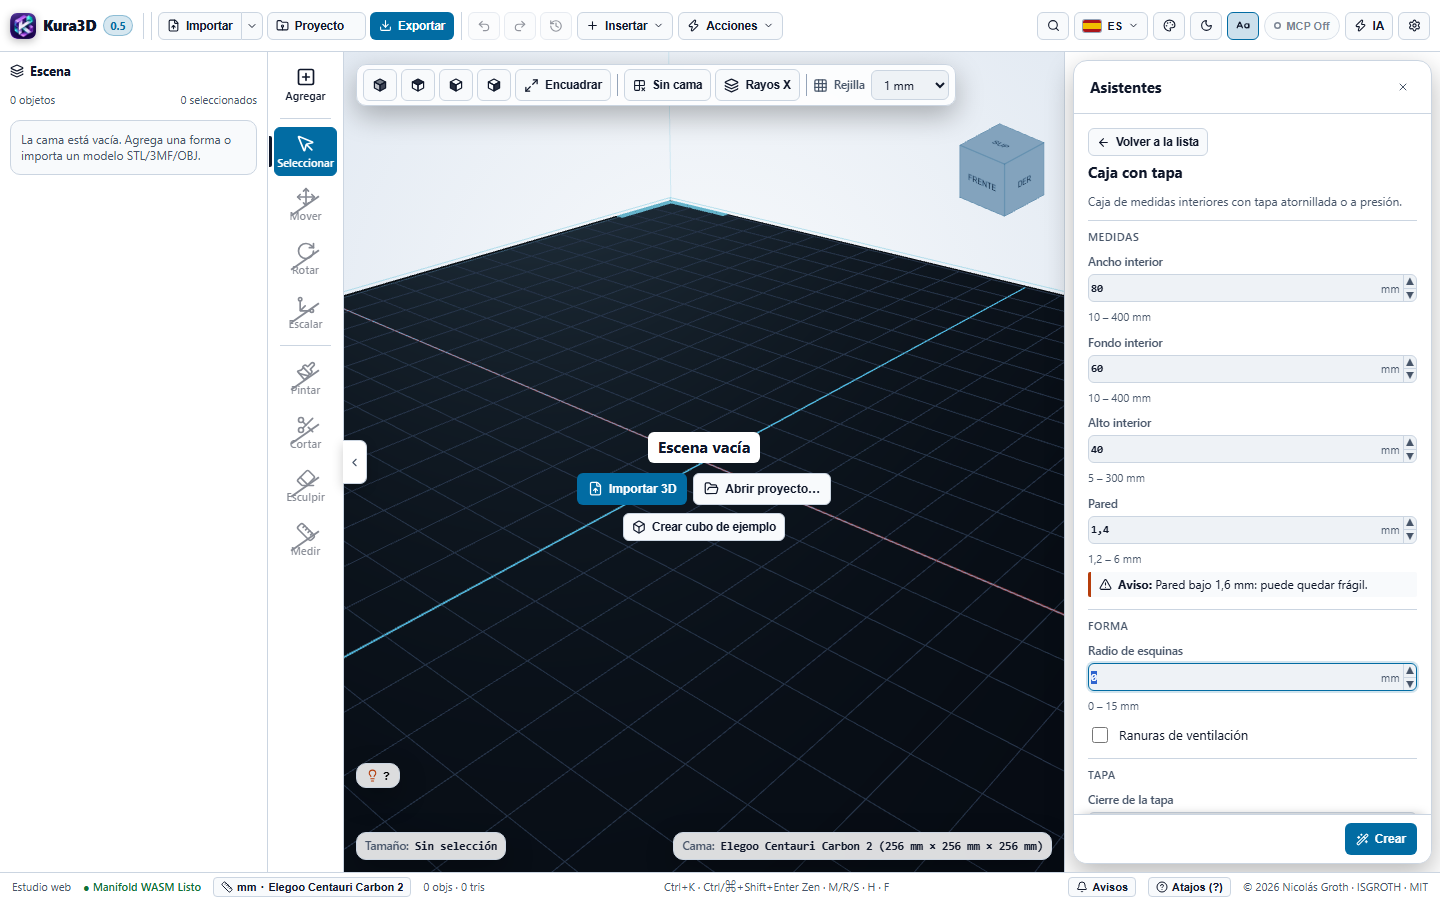
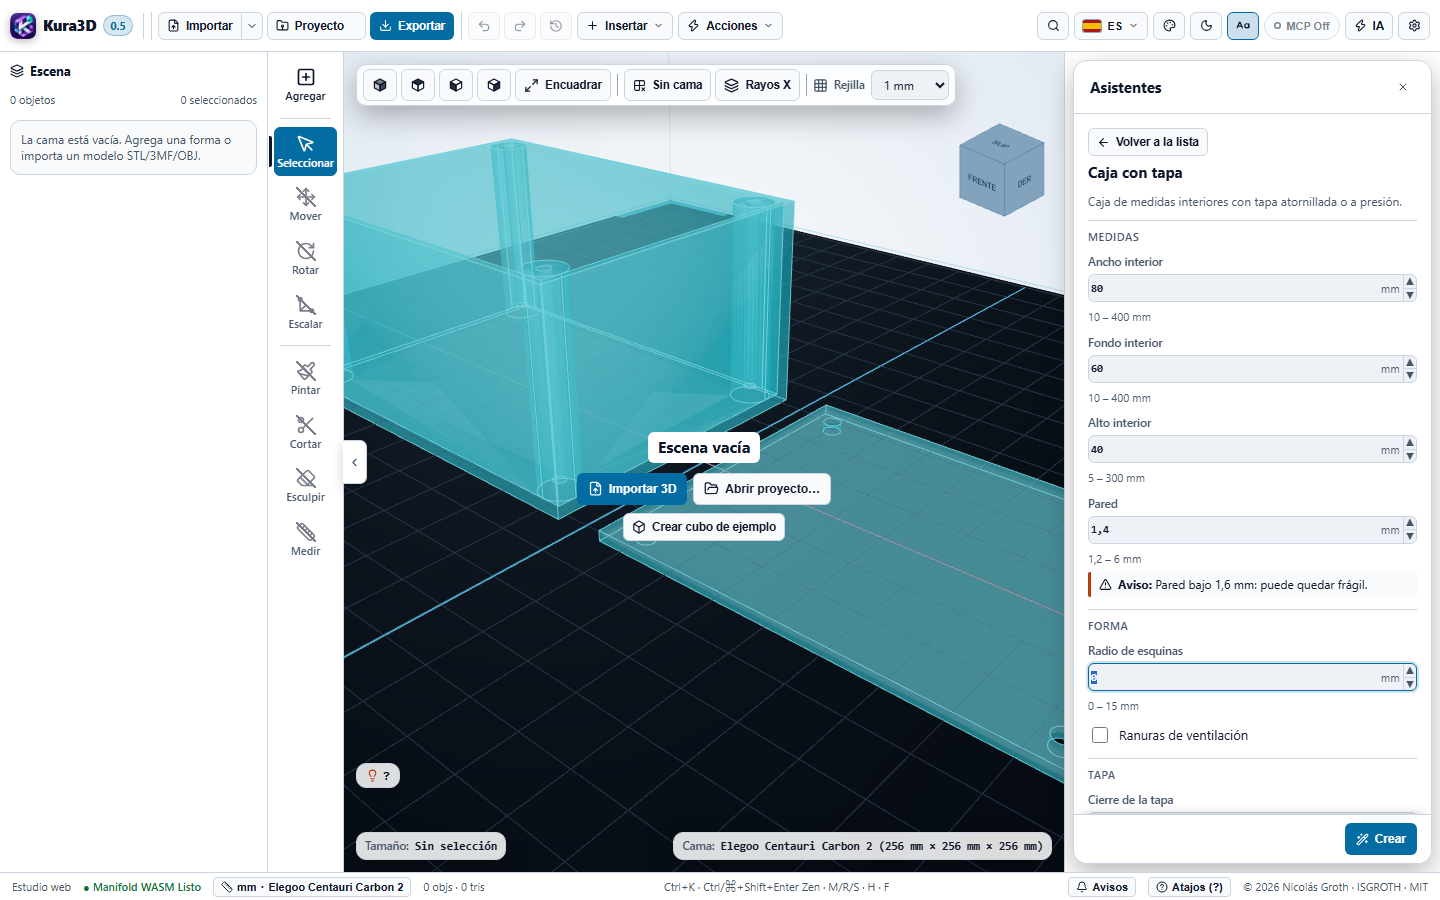
docs(guias): capturas de Suavizar, Orientar, Torreta, Dividir con imanes y Asistentes generadas desde la app
Recorridos corregidos (Acciones › Mala, booleana con los nombres reales, estados sin avisos ni «Guardando borrador»).

diff --git a/e2e/docs/capturas-orientar.spec.ts b/e2e/docs/capturas-orientar.spec.ts
@@ -15,7 +15,7 @@ test('orientar', async ({ page }) => {
   await abrir(page);
   const tallo = await cmd(page, 'create_primitive', { type: 'box', width: 10, depth: 10, height: 40, name: 'Tallo', placement: 'free', position: [0, 0, 20], color: '#38bdf8' });
   const barra = await cmd(page, 'create_primitive', { type: 'box', width: 60, depth: 10, height: 10, name: 'Travesaño', placement: 'free', position: [0, 0, 45], color: '#38bdf8' });
-  const te = await cmd(page, 'boolean_operation', { op: 'union', target: tallo.id, tools: [barra.id] });
+  const te = await cmd(page, 'boolean_operation', { operation: 'union', targetId: tallo.id, toolIds: [barra.id], resultName: 'Te' });
   await seleccionar(page, [te.resultId]);
   await encuadrar(page, 'iso');
   await sinAvisos(page);
@@ -25,8 +25,11 @@ test('orientar', async ({ page }) => {
   await expect(panel.getByTestId('orient-options')).toBeVisible({ timeout: 60_000 });
   await expect(panel.getByTestId('orient-badge-recommended')).toBeVisible();
   // La actual en foco: el visor resalta en naranja lo que hoy necesitaría soporte.
-  await panel.getByRole('option').filter({ has: page.getByTestId('orient-badge-current') }).hover();
+  await panel.getByRole('option').filter({ has: page.getByTestId('orient-badge-current') }).click();
   await expect(panel.getByTestId('orient-legend')).toBeVisible();
+  // Sin el puntero encima (no sale la ayuda emergente) y con la lista desde arriba.
+  await page.mouse.move(700, 120);
+  await panel.evaluate((el) => { el.scrollTop = 0; el.querySelectorAll('*').forEach((n) => { if ((n as HTMLElement).scrollTop > 0) (n as HTMLElement).scrollTop = 0; }); });
   await page.waitForTimeout(1200);
   await page.screenshot({ path: 'docs/guia/img/orientar-01-lista.png' });
 
@@ -36,6 +39,7 @@ test('orientar', async ({ page }) => {
   await expect(panel.getByTestId('orient-summary')).toContainText('ya es la mejor', { timeout: 60_000 });
   await encuadrar(page, 'iso');
   await sinAvisos(page);
-  await page.mouse.move(700, 880);
+  await page.mouse.move(700, 120);
+  await expect(page.locator('footer')).toContainText('Borrador local guardado', { timeout: 40_000 });
   await page.screenshot({ path: 'docs/guia/img/orientar-02-aplicada.png' });
 });

diff --git a/e2e/docs/capturas-suavizar.spec.ts b/e2e/docs/capturas-suavizar.spec.ts
@@ -8,6 +8,7 @@
  * @license MIT
  */
 import { test, expect, type Page } from '@playwright/test';
+import { itemAccion } from '../acciones-helpers';
 import { abrir, captura, cmd, encuadrar, seleccionar, sinAvisos } from './helpers';
 
 const libre = (page: Page) => expect.poll(() => page.evaluate(() => (window as any).__s.getState().busyOperation), { timeout: 30_000 }).toBeNull();
@@ -36,18 +37,19 @@ test('suavizar', async ({ page }) => {
   await seleccionar(page, [esfera.id]);
 
   // 1) Panel desde Acciones › Malla, con la vista previa calculada.
-  await page.getByRole('button', { name: 'Acciones', exact: true }).first().click();
-  await page.getByRole('menuitem', { name: /^Suavizar/ }).click();
+  await (await itemAccion(page, 'Suavizar…')).click();
   await expect(page.getByRole('heading', { name: 'Suavizar malla' })).toBeVisible();
   await page.getByRole('button', { name: /^Vista previa/ }).click();
-  await expect(page.getByRole('status').filter({ hasText: 'Vista previa lista' })).toBeVisible({ timeout: 60_000 });
+  await expect(page.locator('#kura-inspector-panel').getByRole('status').filter({ hasText: 'Vista previa lista' })).toBeVisible({ timeout: 60_000 });
   await sinAvisos(page);
   await captura(page, 'suavizar-01-panel');
 
   // 2) Resultado aplicado.
   await page.getByRole('button', { name: 'Aplicar', exact: true }).click();
   await libre(page);
-  await expect(page.getByRole('status').filter({ hasText: 'Suavizado aplicado' })).toBeVisible();
+  await expect(page.locator('#kura-inspector-panel').getByRole('status').filter({ hasText: 'Suavizado aplicado' })).toBeVisible();
+  await sinAvisos(page);
   await encuadrar(page, 'scene');
+  await expect(page.locator('footer')).toContainText('Borrador local guardado', { timeout: 40_000 });
   await captura(page, 'suavizar-02-resultado');
 });

diff --git a/e2e/docs/capturas-asistentes.spec.ts b/e2e/docs/capturas-asistentes.spec.ts
@@ -40,6 +40,7 @@ test('asistentes', async ({ page }) => {
   const editar = page.getByRole('button', { name: 'Editar con el asistente' });
   await expect(editar).toBeVisible();
   await page.mouse.move(700, 880);
+  await expect(page.locator('footer')).toContainText('Borrador local guardado', { timeout: 40_000 });
   await captura(page, 'asistentes-03-editar');
   // 4) El formulario vuelve con las respuestas guardadas y «Actualizar».
   await editar.click();

diff --git a/e2e/docs/capturas-torreta.spec.ts b/e2e/docs/capturas-torreta.spec.ts
@@ -67,5 +67,7 @@ test('torreta para tornillo', async ({ page }) => {
   });
   await libre(page);
   await camara(page, [55, 60, 45]);
+  await sinAvisos(page);
+  await expect(page.locator('footer')).toContainText('Borrador local guardado', { timeout: 40_000 });
   await captura(page, 'torreta-02-resultado');
 });

diff --git a/docs/guia/dividir-para-imprimir.md b/docs/guia/dividir-para-imprimir.md
@@ -26,7 +26,7 @@ Con el tipo **Imanes (desmontable)** cada cara del corte recibe alojamientos de 
 
 Cada imán deja 1,2 mm de pared alrededor y hacia el exterior. Donde no cabe, no se pone y la unión lo avisa (queda para pegar): elige un imán más chico o mueve el corte a una zona más ancha. Por ahora solo se admiten imanes **redondos**; con un preajuste cuadrado el panel lo advierte y la unión queda para pegar.
 
-<!-- captura: dividir-para-imprimir-03-imanes.png (panel con «Imanes (desmontable)» elegido). Paso preparado en e2e/docs/capturas-dividir-imanes.spec.ts; pendiente de ejecutar. -->
+![Panel Dividir para imprimir con «Imanes (desmontable)» elegido y el preajuste de imán](img/dividir-para-imprimir-03-imanes.png)
 
 ## Armar y preparar para imprimir
 
